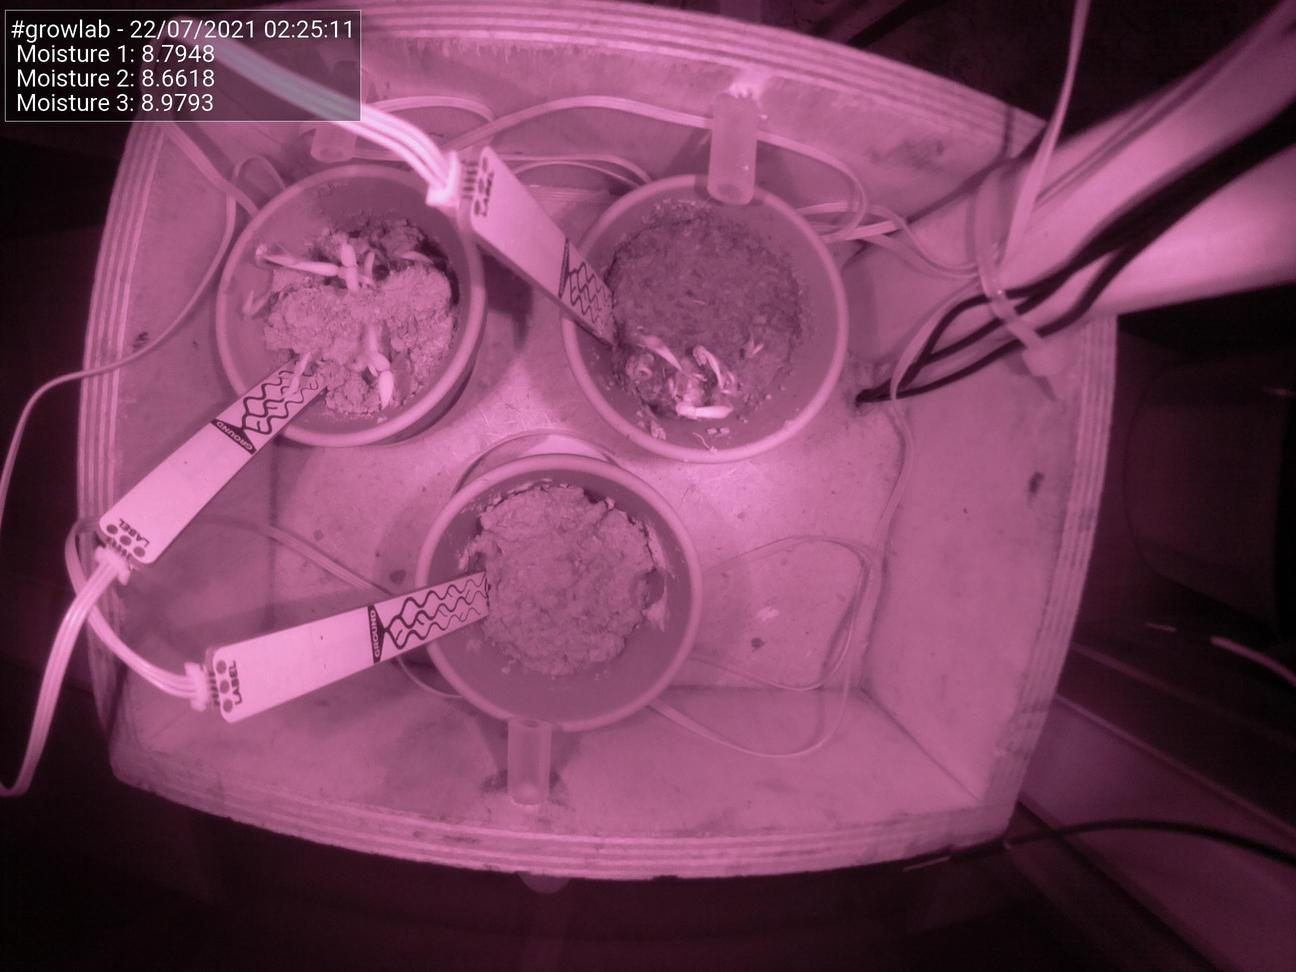
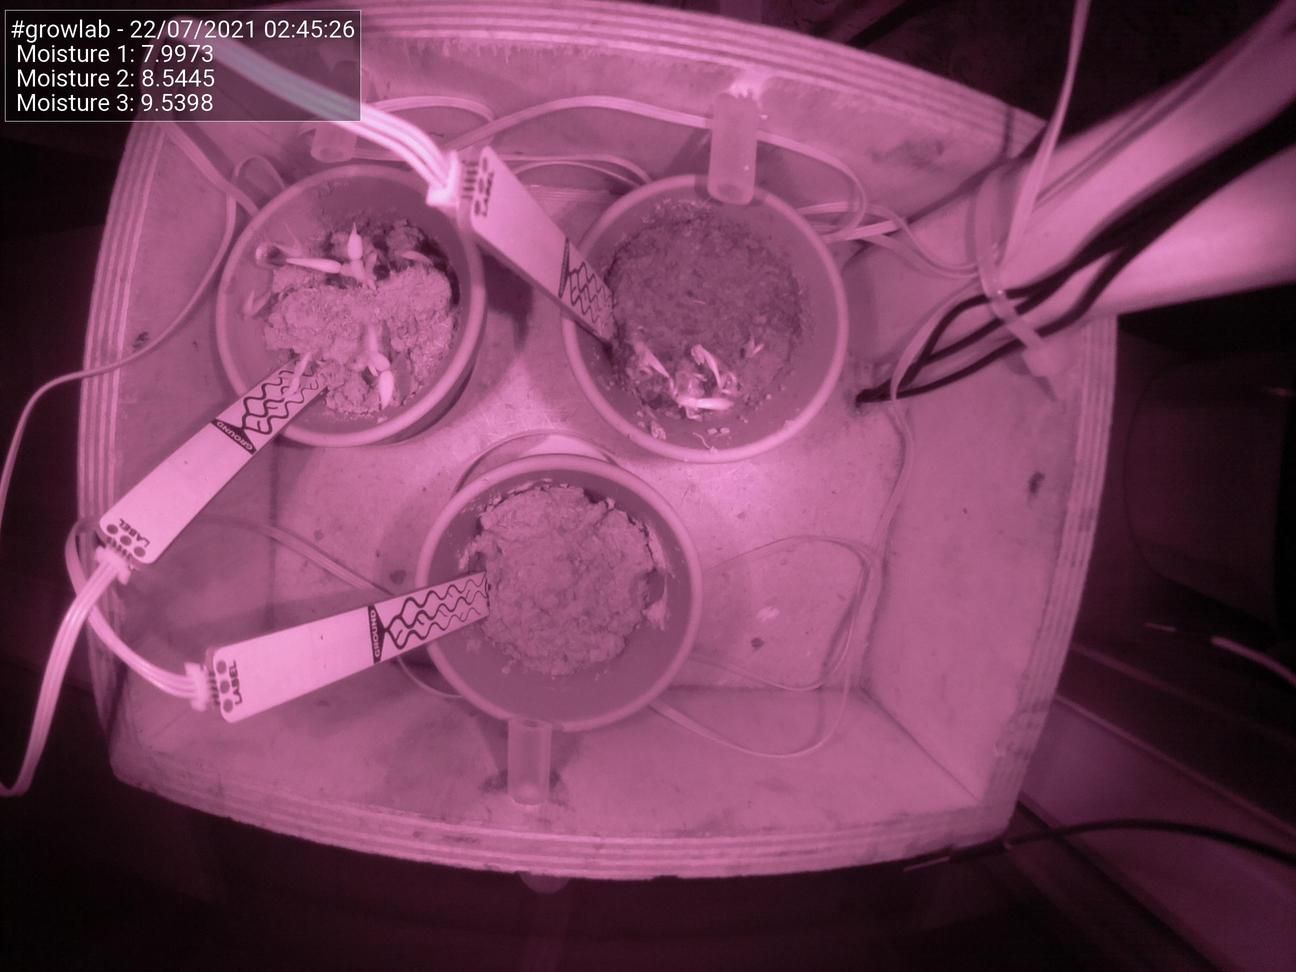
Update images at Thu 22 Jul 02:45:31 BST 2021

diff --git a/docs/index.html b/docs/index.html
@@ -51,25 +51,25 @@
                                 <td>Date</td>
                                 <td>22/07/2021</td>
                                 <td>Time</td>
-                                <td>02:25:11</td>
+                                <td>02:45:26</td>
                             </tr>
                             <tr>
                                 <td>Temperature</td>
                                 <td>N/A</td>
                                 <td>Moisture 1</td>
-                                <td>8.7948</td>
+                                <td>7.9973</td>
                             </tr>
                             <tr>
                                 <td>Humidity</td>
                                 <td>N/A</td>
                                 <td>Moisture 2</td>
-                                <td>8.6618</td>
+                                <td>8.5445</td>
                             </tr>
                             <tr>
                                 <td>Pressure</td>
                                 <td>N/A</td>
                                 <td>Moisture 3</td>
-                                <td>8.9793</td>
+                                <td>9.5398</td>
                             </tr>
                         </tbody>
                     </table>
@@ -77,7 +77,7 @@
 
                 <h5>Latest image</h5>
                 <div style="width: 85%;">
-                            <img class="figure-img img-fluid rounded" src="./preview.jpg?uid=1626917117.5555305">
+                            <img class="figure-img img-fluid rounded" src="./preview.jpg?uid=1626918331.7814786">
                 </div>
             </div>
         </div>
